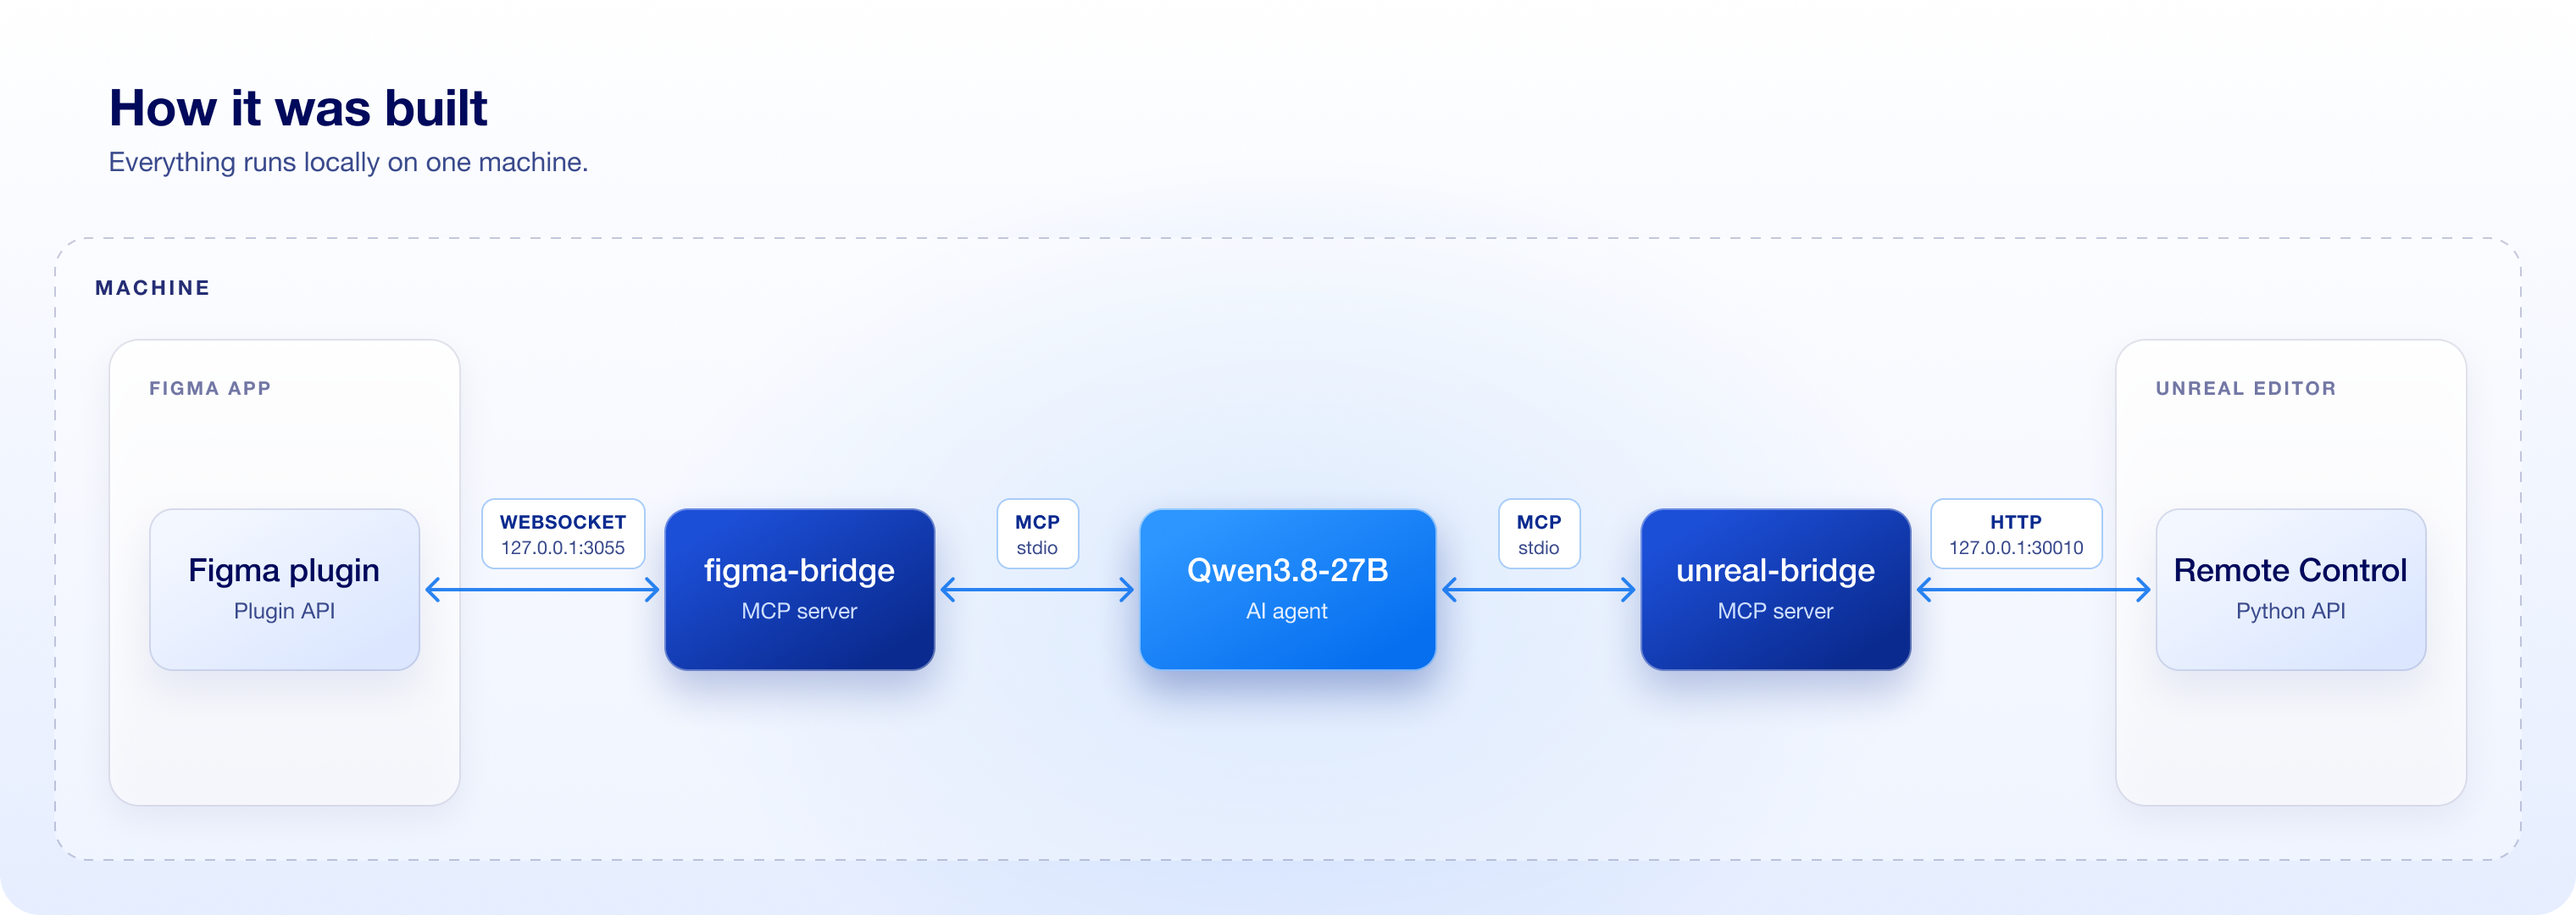
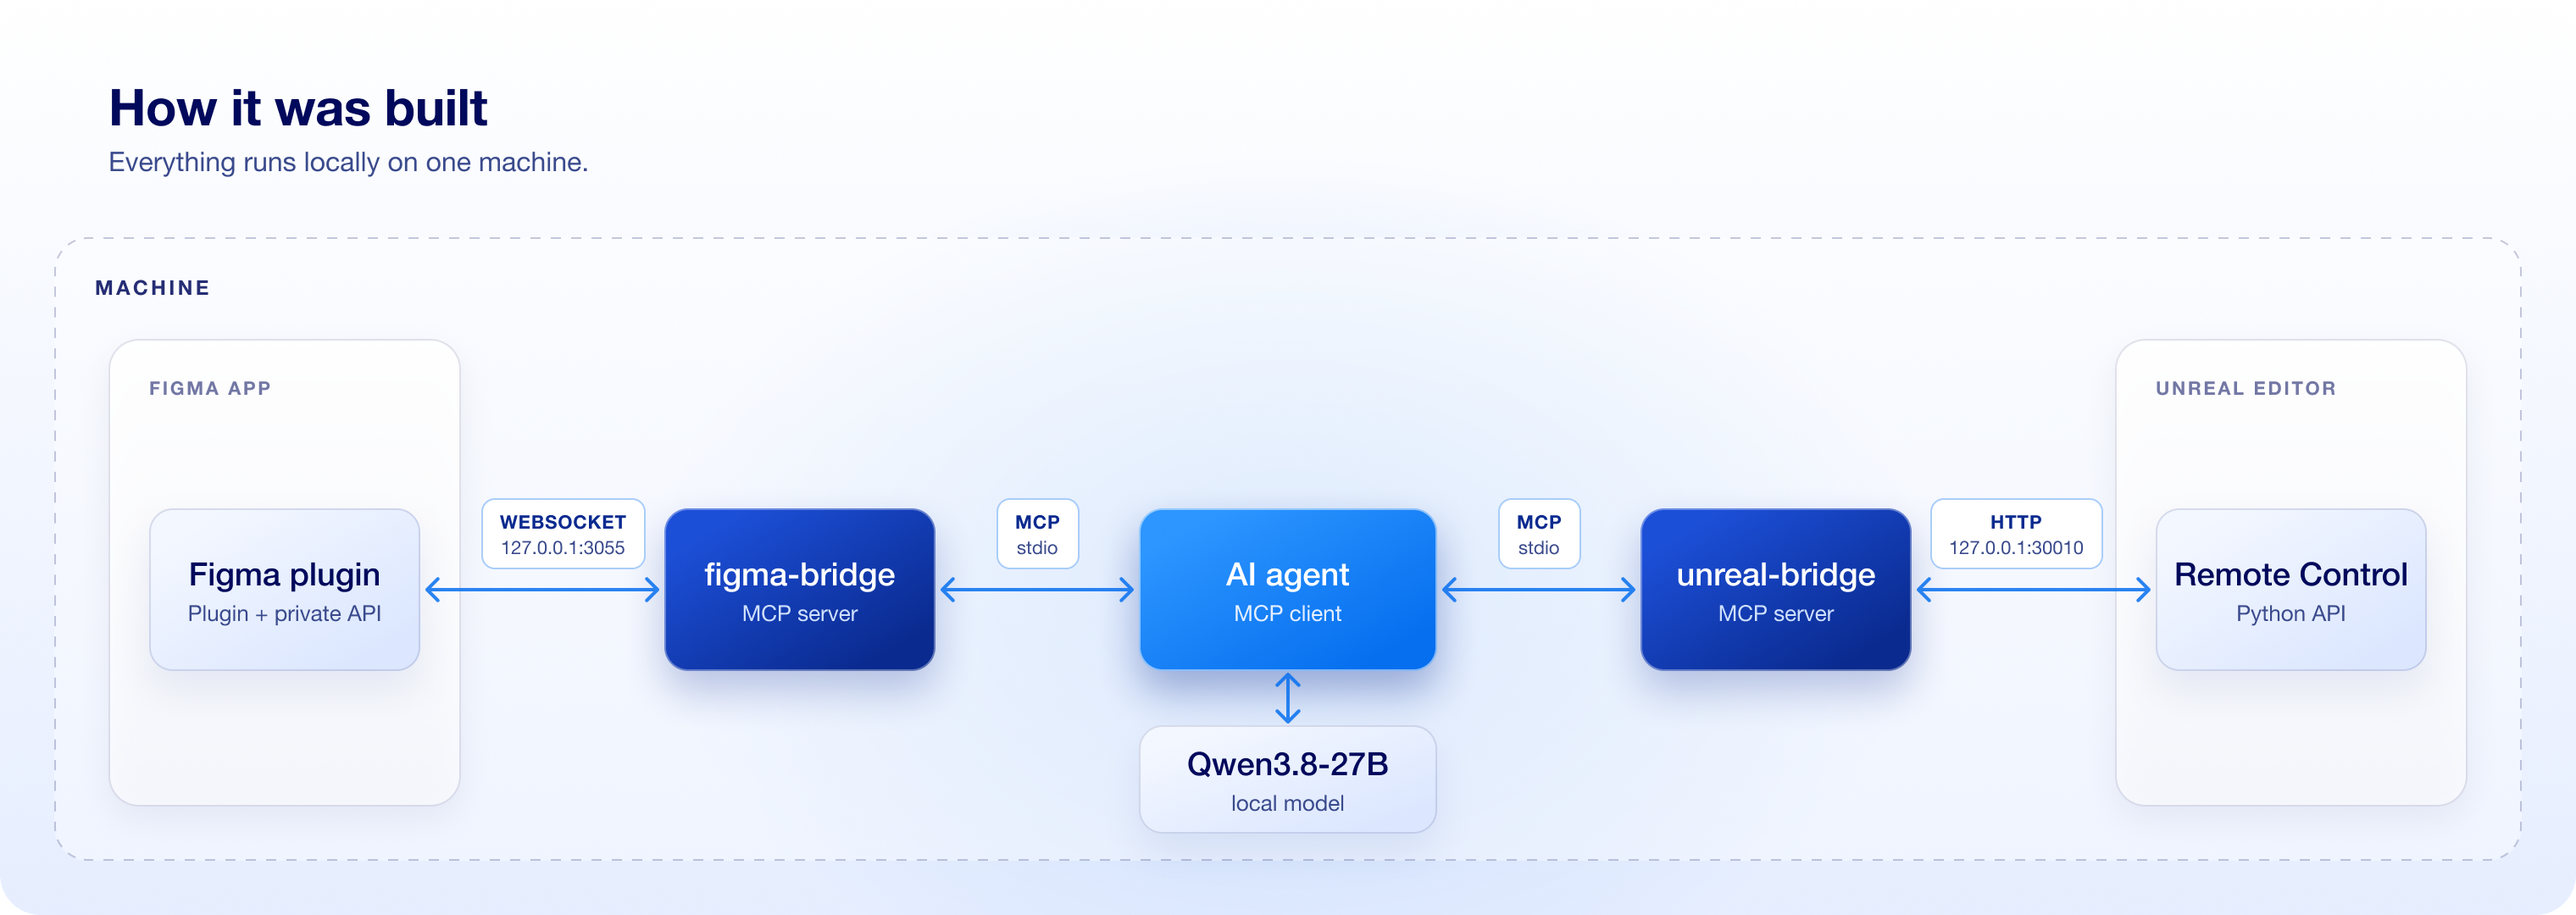
Refine architecture diagram and README

diff --git a/README.md b/README.md
@@ -71,15 +71,17 @@ The Reference Viewer for `WBP_MessagingLayout`: the game mode and HUD that show 
 
 ![How it was built](docs/architecture.png)
 
-Everything runs locally on one machine. The agent sits in the middle and talks to both bridges over MCP (stdio).
+Everything runs locally on one machine. The agent (an MCP client) sits in the middle, runs the local model and talks to both bridges over MCP (stdio).
 
 **Model.** The agent ran locally on [Qwen3.8-27B](https://huggingface.co/Qwen/Qwen3.8-27B).
 
-**Figma → agent.** [figma-bridge](https://github.com/MaxsBond/figma-bridge) is a local MCP server plus a Figma dev plugin. The bridge talks to the plugin over WebSocket on `127.0.0.1:3055`, and the plugin uses the Figma Plugin API to read the open file: node trees, layout, colors, text, exported icons. It also works on a View seat and has no rate limits.
+**Figma → agent.** [figma-bridge](https://github.com/MaxsBond/figma-bridge) is a local MCP server plus a Figma dev plugin. The bridge talks to the plugin over WebSocket on `127.0.0.1:3055`, and the plugin uses the Figma Plugin API, including the private API, to read the open file: node trees, layout, colors, text, exported icons. It also works on a View seat and has no rate limits.
 
-**Agent → Unreal.** unreal-bridge is a custom-built MCP server for the Unreal Editor, used here instead of the official Unreal MCP. It is not published. It runs as a separate local process, like figma-bridge, and sends HTTP requests to the editor's Remote Control API on `127.0.0.1:30010`. Commands run through the editor's Python API, which has access to UMG widgets, animations, data assets and string tables. The agent uses it to add widgets, set properties, create Blueprint functions and events, and edit config.
+**Agent → Unreal.** unreal-bridge is a custom-built MCP server for the Unreal Editor, used here instead of the official Unreal MCP. It is not published. It runs as a separate local process, like figma-bridge, and sends HTTP requests to the editor's Remote Control API on `127.0.0.1:30010`. Commands run through the editor's Python API: UMG widgets, data assets, string tables and config. The agent uses it to add widgets, set properties, create Blueprint functions and events, and edit config.
 
-Animations were authored with a custom editor toolset, `UMGAnimToolset`, that creates Sequencer tracks and keys in Widget Blueprints. It is not part of this repo.
+The Python API does not cover Sequencer tracks and keys in Widget Blueprints, so animations were authored with a custom editor toolset, `UMGAnimToolset`. It is not part of this repo.
+
+The `.uproject` in this repo enables Epic's built-in `ModelContextProtocol` plugin and its toolsets instead of unreal-bridge, because unreal-bridge is not published.
 
 **How the agent worked.** Instead of clicking through the editor, the agent wrote throwaway Python scripts that described the UI and sent it to unreal-bridge: component widgets, the layout with its three states, animations, chat logic and the demo data assets. The scripts were removed once the assets were done; the result lives in `Content/`.
 
